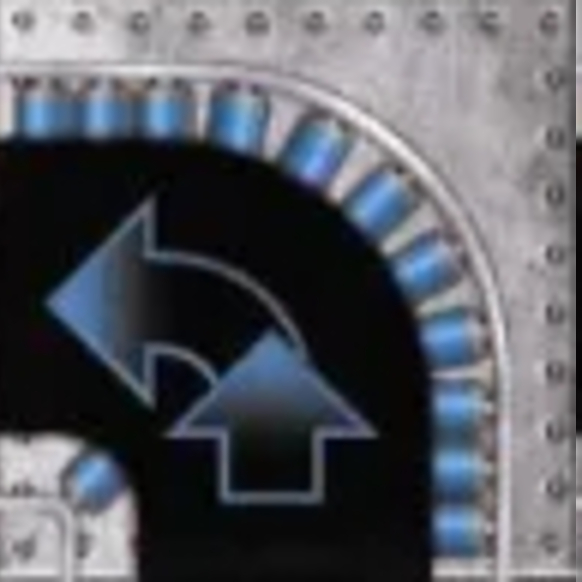
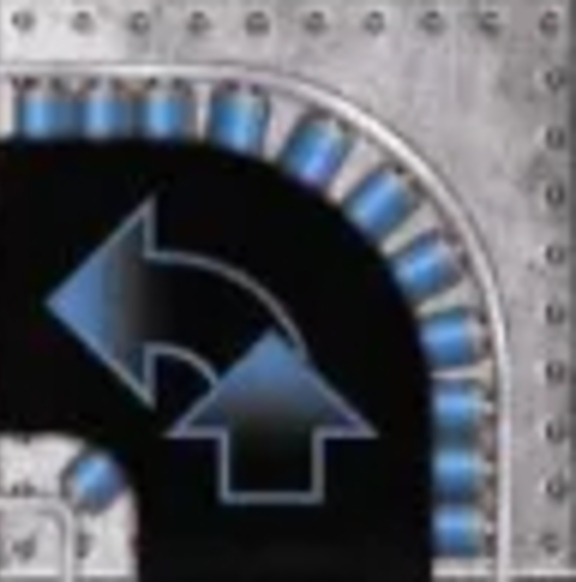
Add RebootToken graphics Add PriorityAntenna graphics Add LaserStart graphics Add EnergyCube graphics Improve image quality

diff --git a/roborally-initial/src/main/java/dk/dtu/compute/se/pisd/roborally/view/SpaceView.java b/roborally-initial/src/main/java/dk/dtu/compute/se/pisd/roborally/view/SpaceView.java
@@ -25,9 +25,14 @@ import dk.dtu.compute.se.pisd.designpatterns.observer.Subject;
 import dk.dtu.compute.se.pisd.roborally.model.Player;
 import dk.dtu.compute.se.pisd.roborally.model.SpaceModels.BlueConveyor;
 import dk.dtu.compute.se.pisd.roborally.model.SpaceModels.Conveyor;
+import dk.dtu.compute.se.pisd.roborally.model.SpaceModels.Energy;
 import dk.dtu.compute.se.pisd.roborally.model.SpaceModels.GreenConveyor;
+import dk.dtu.compute.se.pisd.roborally.model.SpaceModels.LaserStart;
+import dk.dtu.compute.se.pisd.roborally.model.SpaceModels.PriorityAntenna;
+import dk.dtu.compute.se.pisd.roborally.model.SpaceModels.RebootToken;
 import dk.dtu.compute.se.pisd.roborally.model.SpaceModels.Checkpoint;
 import dk.dtu.compute.se.pisd.roborally.model.SpaceModels.Space;
+import dk.dtu.compute.se.pisd.roborally.model.SpaceModels.StartGear;
 import dk.dtu.compute.se.pisd.roborally.model.SpaceModels.Wall;
 import javafx.scene.image.Image;
 import javafx.scene.layout.StackPane;
@@ -162,6 +167,38 @@ public class SpaceView extends StackPane implements ViewObserver {
         }
     }
 
+    public void updateStartGear() {
+        if (space instanceof StartGear) {
+            setImage("file:roborally-initial/src/main/java/dk/dtu/compute/se/pisd/roborally/image/StartGear.jpg");
+        }
+    }
+
+    public void updateEnergyCube() {
+        if (space instanceof Energy) {
+            setImage("file:roborally-initial/src/main/java/dk/dtu/compute/se/pisd/roborally/image/EnergyCube.jpg");
+        }
+    }
+
+    public void updateLaserStart() {
+        if (space instanceof LaserStart) {
+            LaserStart laserStart = (LaserStart) space;
+            setImage("file:roborally-initial/src/main/java/dk/dtu/compute/se/pisd/roborally/image/LaserStart"
+                    + laserStart.facing.toString() + ".jpg");
+        }
+    }
+
+    public void updatePriorityAntenna() {
+        if (space instanceof PriorityAntenna) {
+            setImage("file:roborally-initial/src/main/java/dk/dtu/compute/se/pisd/roborally/image/PriorityAntenna.jpg");
+        }
+    }
+
+    public void updateRebootToken() {
+        if (space instanceof RebootToken) {
+            setImage("file:roborally-initial/src/main/java/dk/dtu/compute/se/pisd/roborally/image/RebootToken.jpg");
+        }
+    }
+
     /** 
      * Wrap board image code in function for simplification
      * @param imagePath
@@ -186,6 +223,11 @@ public class SpaceView extends StackPane implements ViewObserver {
         updateCheckpoint();
         updateConveyor();
         updateSpace();
+        updateStartGear();
+        updateEnergyCube();
+        updateLaserStart();
+        updateRebootToken();
+        updatePriorityAntenna();
         if (subject == this.space) {
             updatePlayer();
 

diff --git a/roborally-initial/src/main/java/dk/dtu/compute/se/pisd/roborally/model/Board.java b/roborally-initial/src/main/java/dk/dtu/compute/se/pisd/roborally/model/Board.java
@@ -72,6 +72,7 @@ public class Board extends Subject {
     private boolean stepMode;
 
     private int boardCheckpoints = 0;
+
     public Board(Course course) {
 
         this.boardName = course.game_name;
@@ -127,7 +128,7 @@ public class Board extends Subject {
                         break;
 
                     case laser_start:
-                        space = new LaserStart(this, x, y, tile.attributes.edges, tile.attributes.facing);
+                        space = new LaserStart(this, x, y, tile.attributes.edges, tile.attributes.facing[0]);
                         break;
 
                     case reboot_token:
@@ -374,11 +375,11 @@ public class Board extends Subject {
                 ", Checkpoint:" + getCurrentPlayer().getCheckpointCount();
     }
 
-    public int getBoardCheckpoints(){
+    public int getBoardCheckpoints() {
         return boardCheckpoints;
     }
 
-    public void setBoardCheckpoints(int boardCheckpoints){
+    public void setBoardCheckpoints(int boardCheckpoints) {
         this.boardCheckpoints = boardCheckpoints;
     }
 }

diff --git a/roborally-initial/src/main/java/dk/dtu/compute/se/pisd/roborally/model/SpaceModels/LaserStart.java b/roborally-initial/src/main/java/dk/dtu/compute/se/pisd/roborally/model/SpaceModels/LaserStart.java
@@ -5,9 +5,9 @@ import dk.dtu.compute.se.pisd.roborally.model.Heading;
 
 public class LaserStart extends Space {
 
-    public final Heading[] facing;
+    public final Heading facing;
 
-    public LaserStart(Board board, int x, int y, Heading[] edges, Heading[] facing) {
+    public LaserStart(Board board, int x, int y, Heading[] edges, Heading facing) {
         super(board, x, y, edges);
         this.facing = facing;
         //TODO Auto-generated constructor stub
